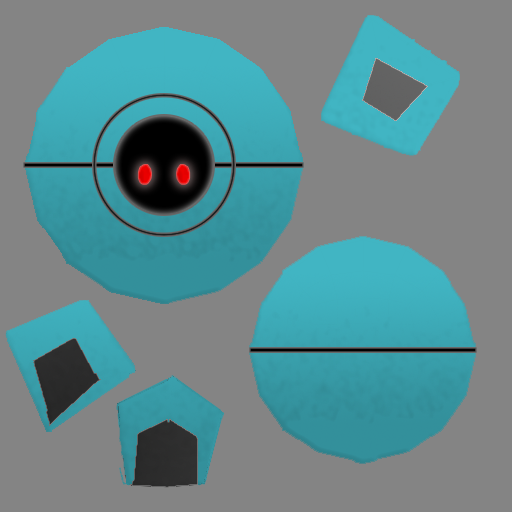
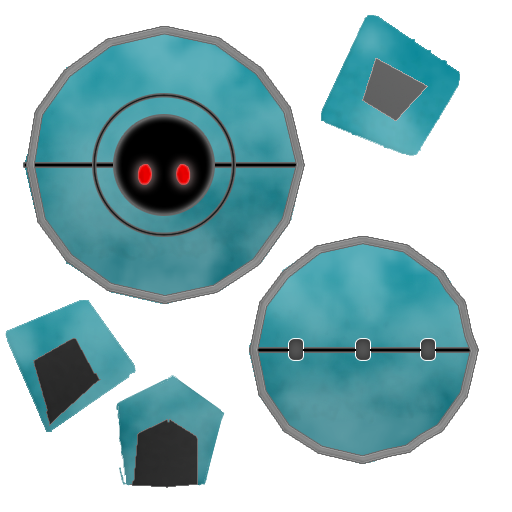
[Update]モデル入れ替え [Update]SceneManagerで倒した敵の数を数えられるようにした [Update]リザルトで倒した敵の数・コンボを表示するようにした

diff --git a/ES Game Library/MyClass/EnemyManager/EnemyFactory/EnemyFactory.cpp b/ES Game Library/MyClass/EnemyManager/EnemyFactory/EnemyFactory.cpp
@@ -20,9 +20,9 @@ EnemyFactory::EnemyFactory() {
 	_enemytag.push_back("dist_homing");
 
 	_enemy_model[MOVE]        = "MODEL/Enemies/Enemy/enemy_White.X";
-	_enemy_model[STOP]        = "MODEL/Enemies/StopEnemy/enemy_round.X";
-	_enemy_model[HOMING]      = "MODEL/Enemies/HomingEnemy/enemy_Eye.X";
-	_enemy_model[DIST_HOMING] = "MODEL/Enemies/DistHomingEnemy/enemy_c3_v4.X";
+	_enemy_model[STOP]        = "MODEL/Enemies/StopEnemy/enemy_light blue.X";
+	_enemy_model[HOMING]      = "MODEL/Enemies/HomingEnemy/enemy_triangle.X";
+	_enemy_model[DIST_HOMING] = "MODEL/Enemies/DistHomingEnemy/enemy_Han_en.X";
 }
 
 EnemyFactory::~EnemyFactory() {

diff --git a/ES Game Library/MyClass/SceneManager/SceneManager.cpp b/ES Game Library/MyClass/SceneManager/SceneManager.cpp
@@ -8,11 +8,13 @@ SceneManager::SceneManager()
 {
 	_scene = nullptr;
 	this->SetCombo(0);
+	this->SetDeathEnemy(0);
 }
 
 SceneManager::SceneManager(int combo)
 {
 	this->SetCombo(combo);
+	this->SetDeathEnemy(combo);
 }
 
 SceneManager::~SceneManager()
@@ -78,3 +80,15 @@ int SceneManager::GetCombo()
 	return this->_combo;
 }
 
+void SceneManager::AddDeathEnemy() {
+	_count ++;
+}
+
+void SceneManager::SetDeathEnemy(int count) {
+	if (count < 0) return;
+	this->_count = count;
+}
+
+int SceneManager::GetDeathEnemy() {
+	return _count;
+}

diff --git a/ES Game Library/MyClass/SceneManager/SceneManager.h b/ES Game Library/MyClass/SceneManager/SceneManager.h
@@ -22,7 +22,12 @@ public:
 	void SetCombo(int combo);
 	int GetCombo();
 
+	void AddDeathEnemy();
+	void SetDeathEnemy(int count);
+	int GetDeathEnemy();
+
 private:
 	std::unique_ptr<BaseScene> _scene;
 	int _combo;
-};
+	int _count;
+	};
